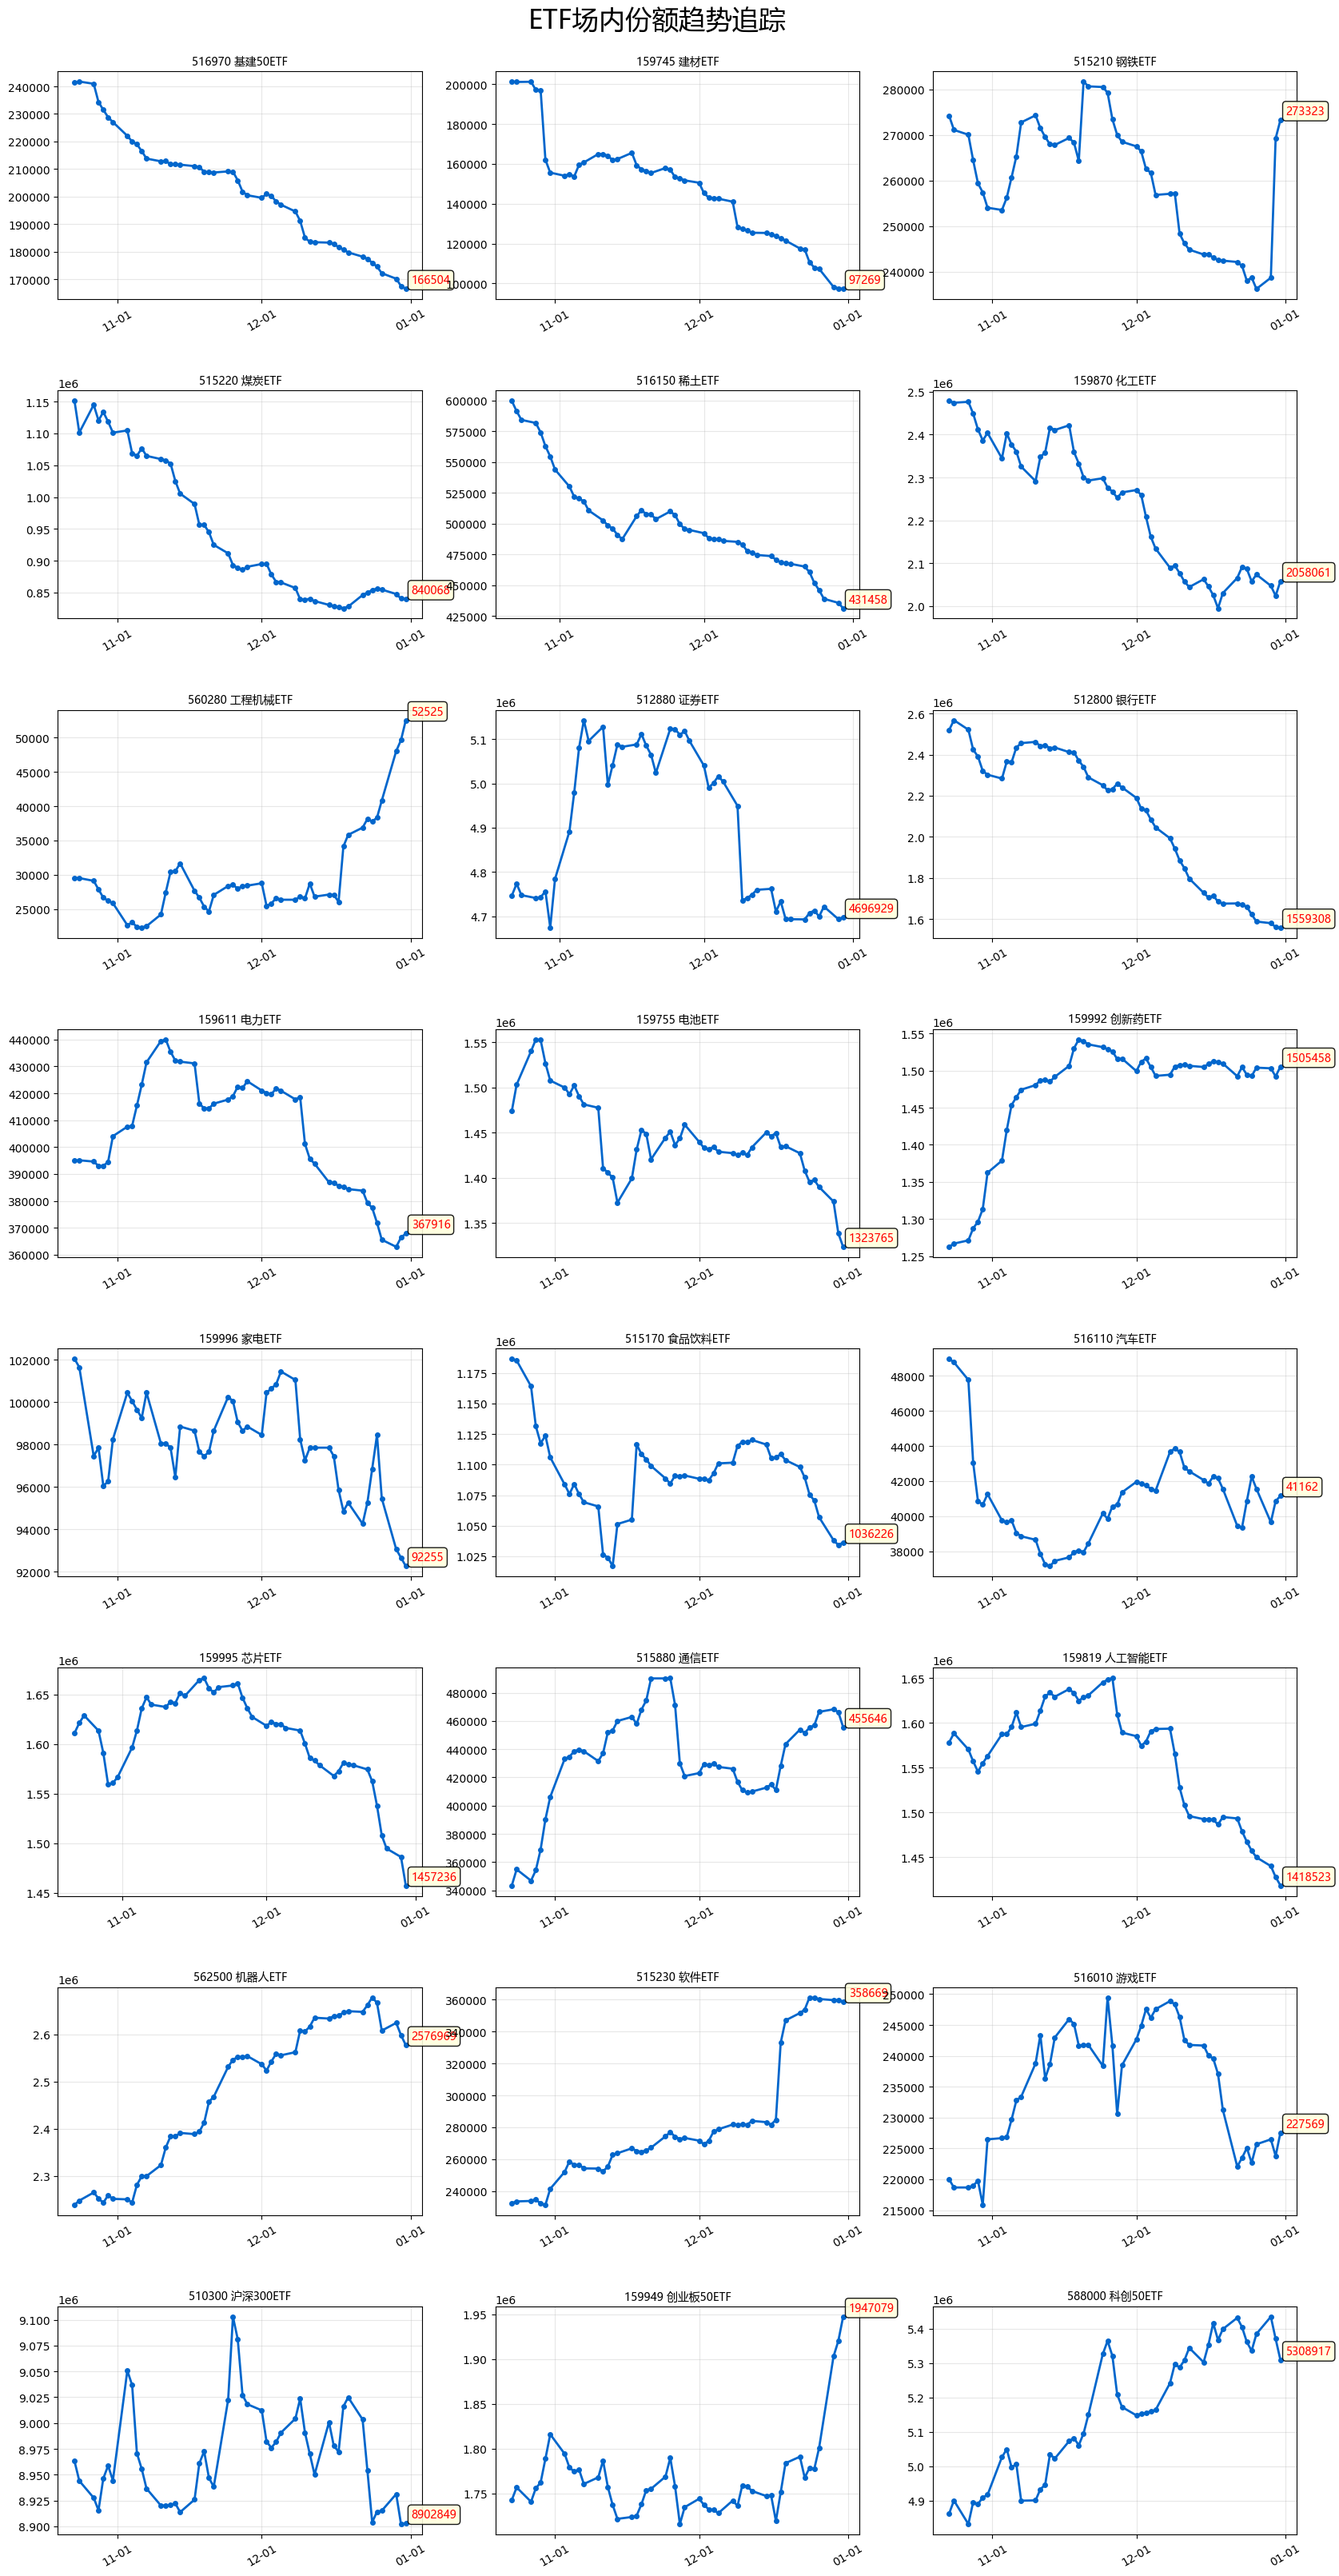
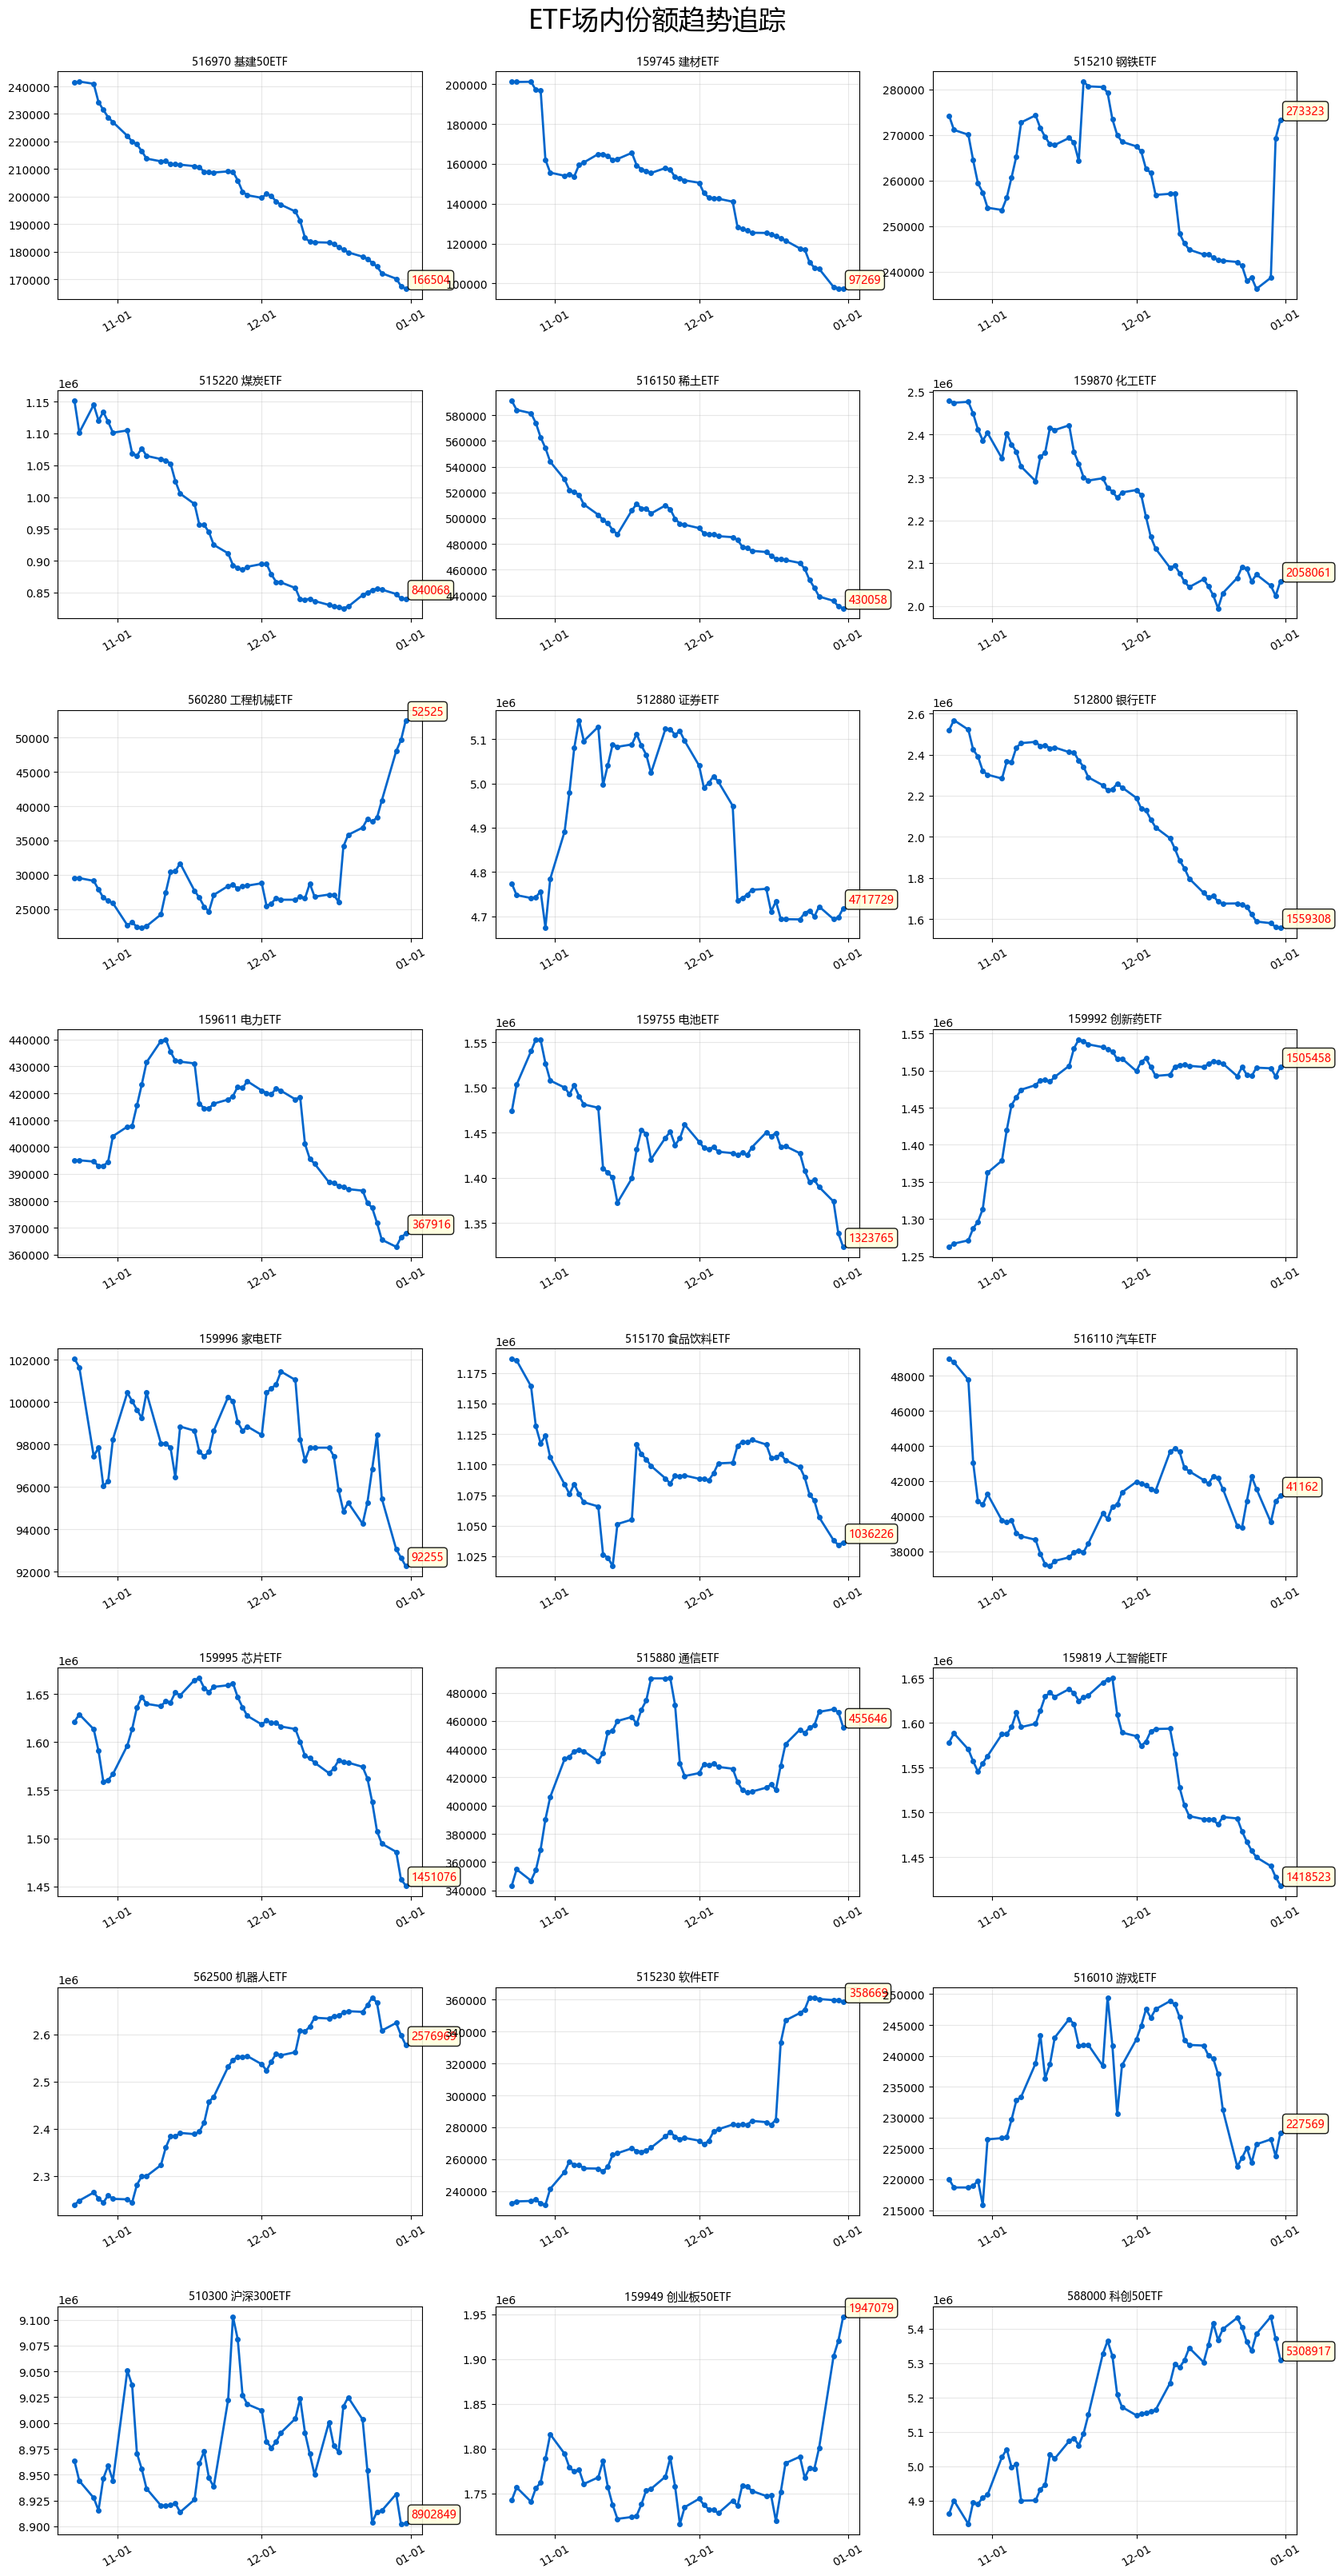
deploy: b52a12e6ae16b126233a24a12c2d7ccfcbfab4a2

diff --git a/index.html b/index.html
@@ -42,26 +42,26 @@
 </head>
 <body>
     <h1>ETF 场内份额每日追踪（摘自集思录）</h1>
-    <div class="update-time">更新时间 (北京时间): 2025-12-31 23:27</div>
+    <div class="update-time">更新时间 (北京时间): 2026-01-01 23:28</div>
     
     <div class="content-box">
         <h3 style="margin-top:0; border-bottom: 2px solid #f4f4f4; padding-bottom: 10px;">📊 最新份额排名</h3>
         <ul class="rank-list">
             <li style='color:red; font-weight:bold;'>1. 沪深300ETF (510300): 8,902,849 万份</li>
 <li style='color:red; font-weight:bold;'>2. 科创50ETF (588000): 5,308,917 万份</li>
-<li style='color:red; font-weight:bold;'>3. 证券ETF (512880): 4,696,929 万份</li>
+<li style='color:red; font-weight:bold;'>3. 证券ETF (512880): 4,717,729 万份</li>
 <li style='color:black; font-weight:normal;'>4. 机器人ETF (562500): 2,576,969 万份</li>
 <li style='color:black; font-weight:normal;'>5. 化工ETF (159870): 2,058,061 万份</li>
 <li style='color:black; font-weight:normal;'>6. 创业板50ETF (159949): 1,947,079 万份</li>
 <li style='color:black; font-weight:normal;'>7. 银行ETF (512800): 1,559,308 万份</li>
 <li style='color:black; font-weight:normal;'>8. 创新药ETF (159992): 1,505,458 万份</li>
-<li style='color:black; font-weight:normal;'>9. 芯片ETF (159995): 1,457,236 万份</li>
+<li style='color:black; font-weight:normal;'>9. 芯片ETF (159995): 1,451,076 万份</li>
 <li style='color:black; font-weight:normal;'>10. 人工智能ETF (159819): 1,418,523 万份</li>
 <li style='color:black; font-weight:normal;'>11. 电池ETF (159755): 1,323,765 万份</li>
 <li style='color:black; font-weight:normal;'>12. 食品饮料ETF (515170): 1,036,226 万份</li>
 <li style='color:black; font-weight:normal;'>13. 煤炭ETF (515220): 840,068 万份</li>
 <li style='color:black; font-weight:normal;'>14. 通信ETF (515880): 455,646 万份</li>
-<li style='color:black; font-weight:normal;'>15. 稀土ETF (516150): 431,458 万份</li>
+<li style='color:black; font-weight:normal;'>15. 稀土ETF (516150): 430,058 万份</li>
 <li style='color:black; font-weight:normal;'>16. 电力ETF (159611): 367,916 万份</li>
 <li style='color:black; font-weight:normal;'>17. 软件ETF (515230): 358,669 万份</li>
 <li style='color:black; font-weight:normal;'>18. 钢铁ETF (515210): 273,323 万份</li>
